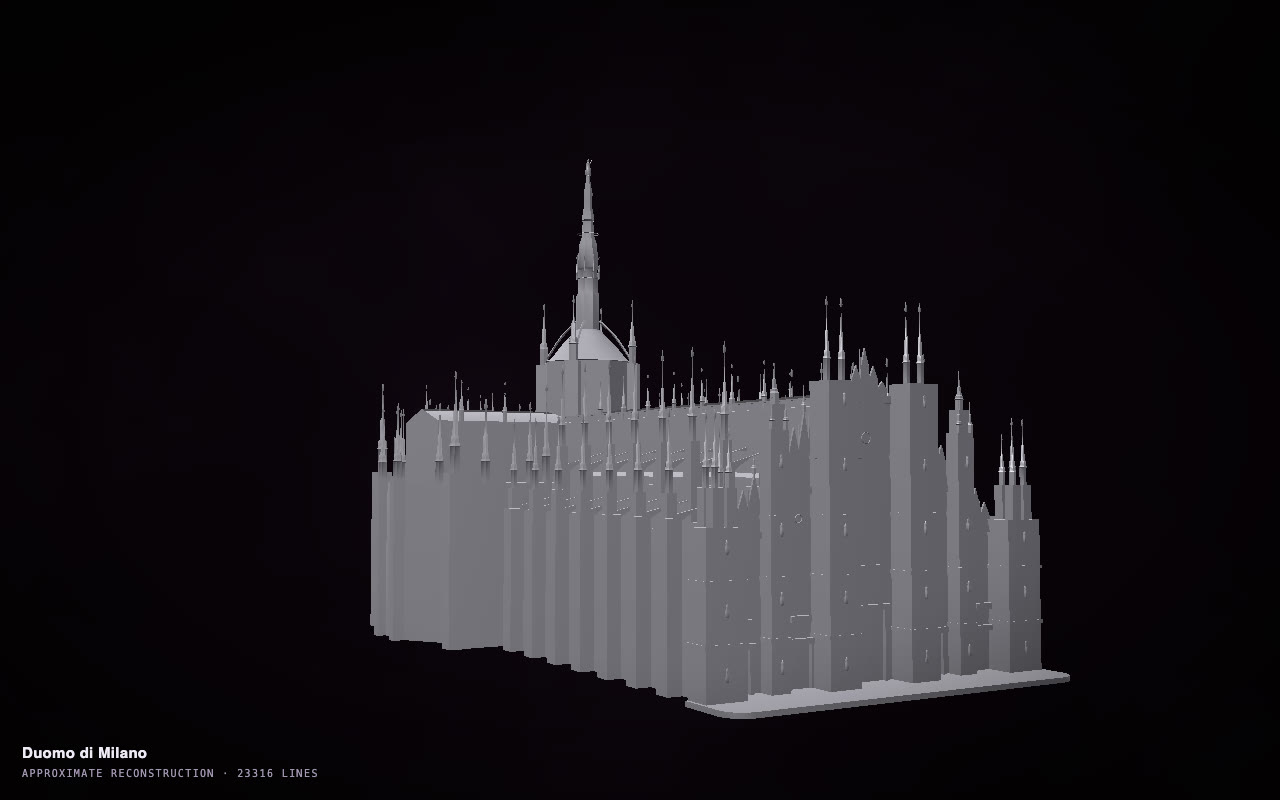
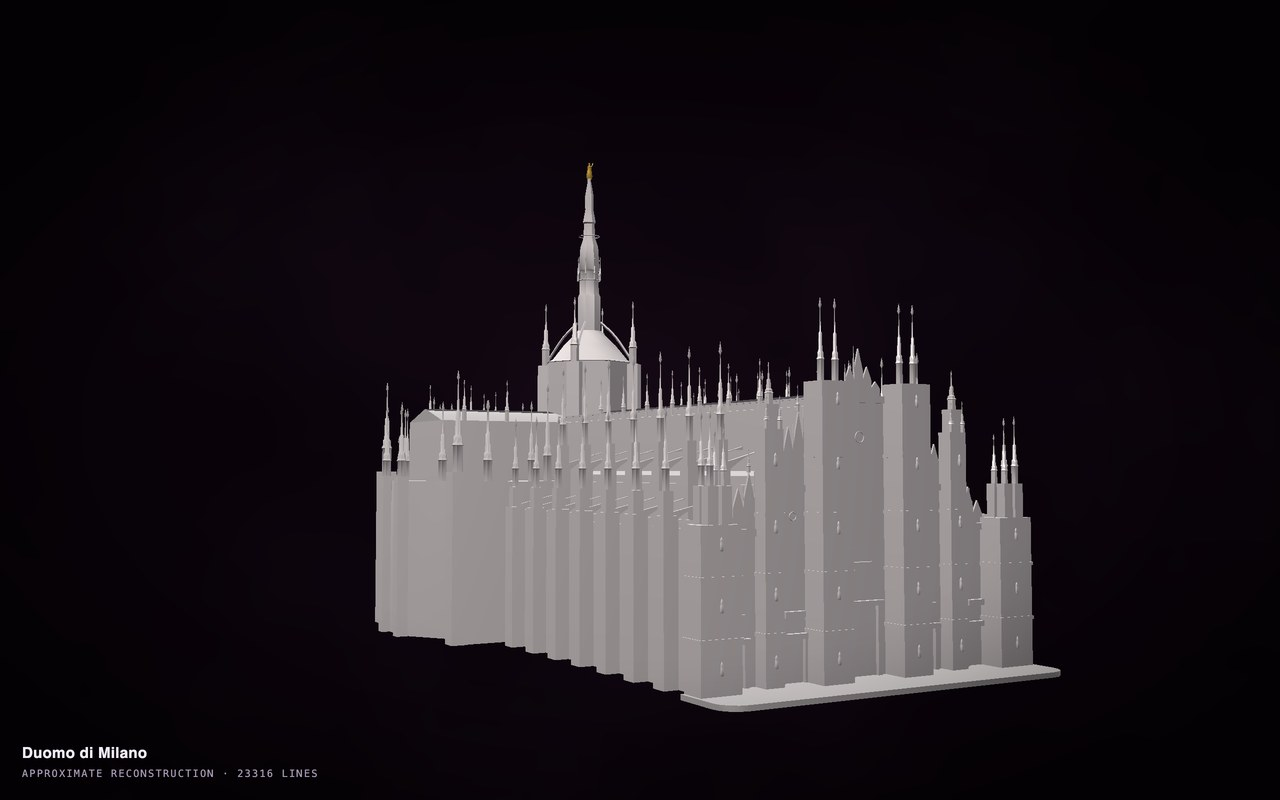
docs(media): the Duomo and Tompion's clock in the solid view in their maps' colours

Changed region(s): [[0.2812, 0.2188, 0.8438, 0.9062], [0.0312, 0.9375, 0.125, 0.9688]]

diff --git a/docs/END-TO-END.md b/docs/END-TO-END.md
@@ -114,7 +114,7 @@ materials are documented; the shape of each moulding was read from a photograph;
 
 Press **S**: the same construct as a modelling program shows it, the glass clear.
 
-<p align="center"><a href="https://rtmandreyev.github.io/construct/examples/tompion-year-going-clock/construct.html?mode=solid"><img src="media/tompion-solid.jpg" width="70%" alt="The clock in lines of light and as a grey solid side by side"></a></p>
+<p align="center"><a href="https://rtmandreyev.github.io/construct/examples/tompion-year-going-clock/construct.html?mode=solid"><img src="media/tompion-solid.jpg" width="70%" alt="The clock with its hood door open, in lines of light and as a solid in its walnut and gilt, side by side"></a></p>
 <p align="center"><sub><a href="https://rtmandreyev.github.io/construct/examples/tompion-year-going-clock/construct.html?mode=solid">Open it as a solid</a> · <a href="https://rtmandreyev.github.io/construct/examples/tompion-year-going-clock/construct.html?open=1">with its doors open</a></sub></p>
 
 ## 6. In Blender

diff --git a/README.md b/README.md
@@ -169,7 +169,7 @@ every guess a deeper amber the more firmly it is held; and the same Duomo as a s
 
 <p align="center">
   <img src="docs/media/provenance-shades-duomo.jpg" width="49%" alt="The Duomo di Milano in the provenance view: verified sizes in cyan, traced parts in blue, inferred parts in shades of amber, with the legend counting each">
-  <img src="docs/media/solid-duomo.jpg" width="49%" alt="The Duomo di Milano as a solid, from the same view">
+  <img src="docs/media/solid-duomo.jpg" width="49%" alt="The Duomo di Milano as a solid in its marble, the Madonnina gilded, from the same view">
 </p>
 
 **Film mode.** A construct assembling across a piece of music. [Film and motion →](docs/for/film-and-motion.md)
